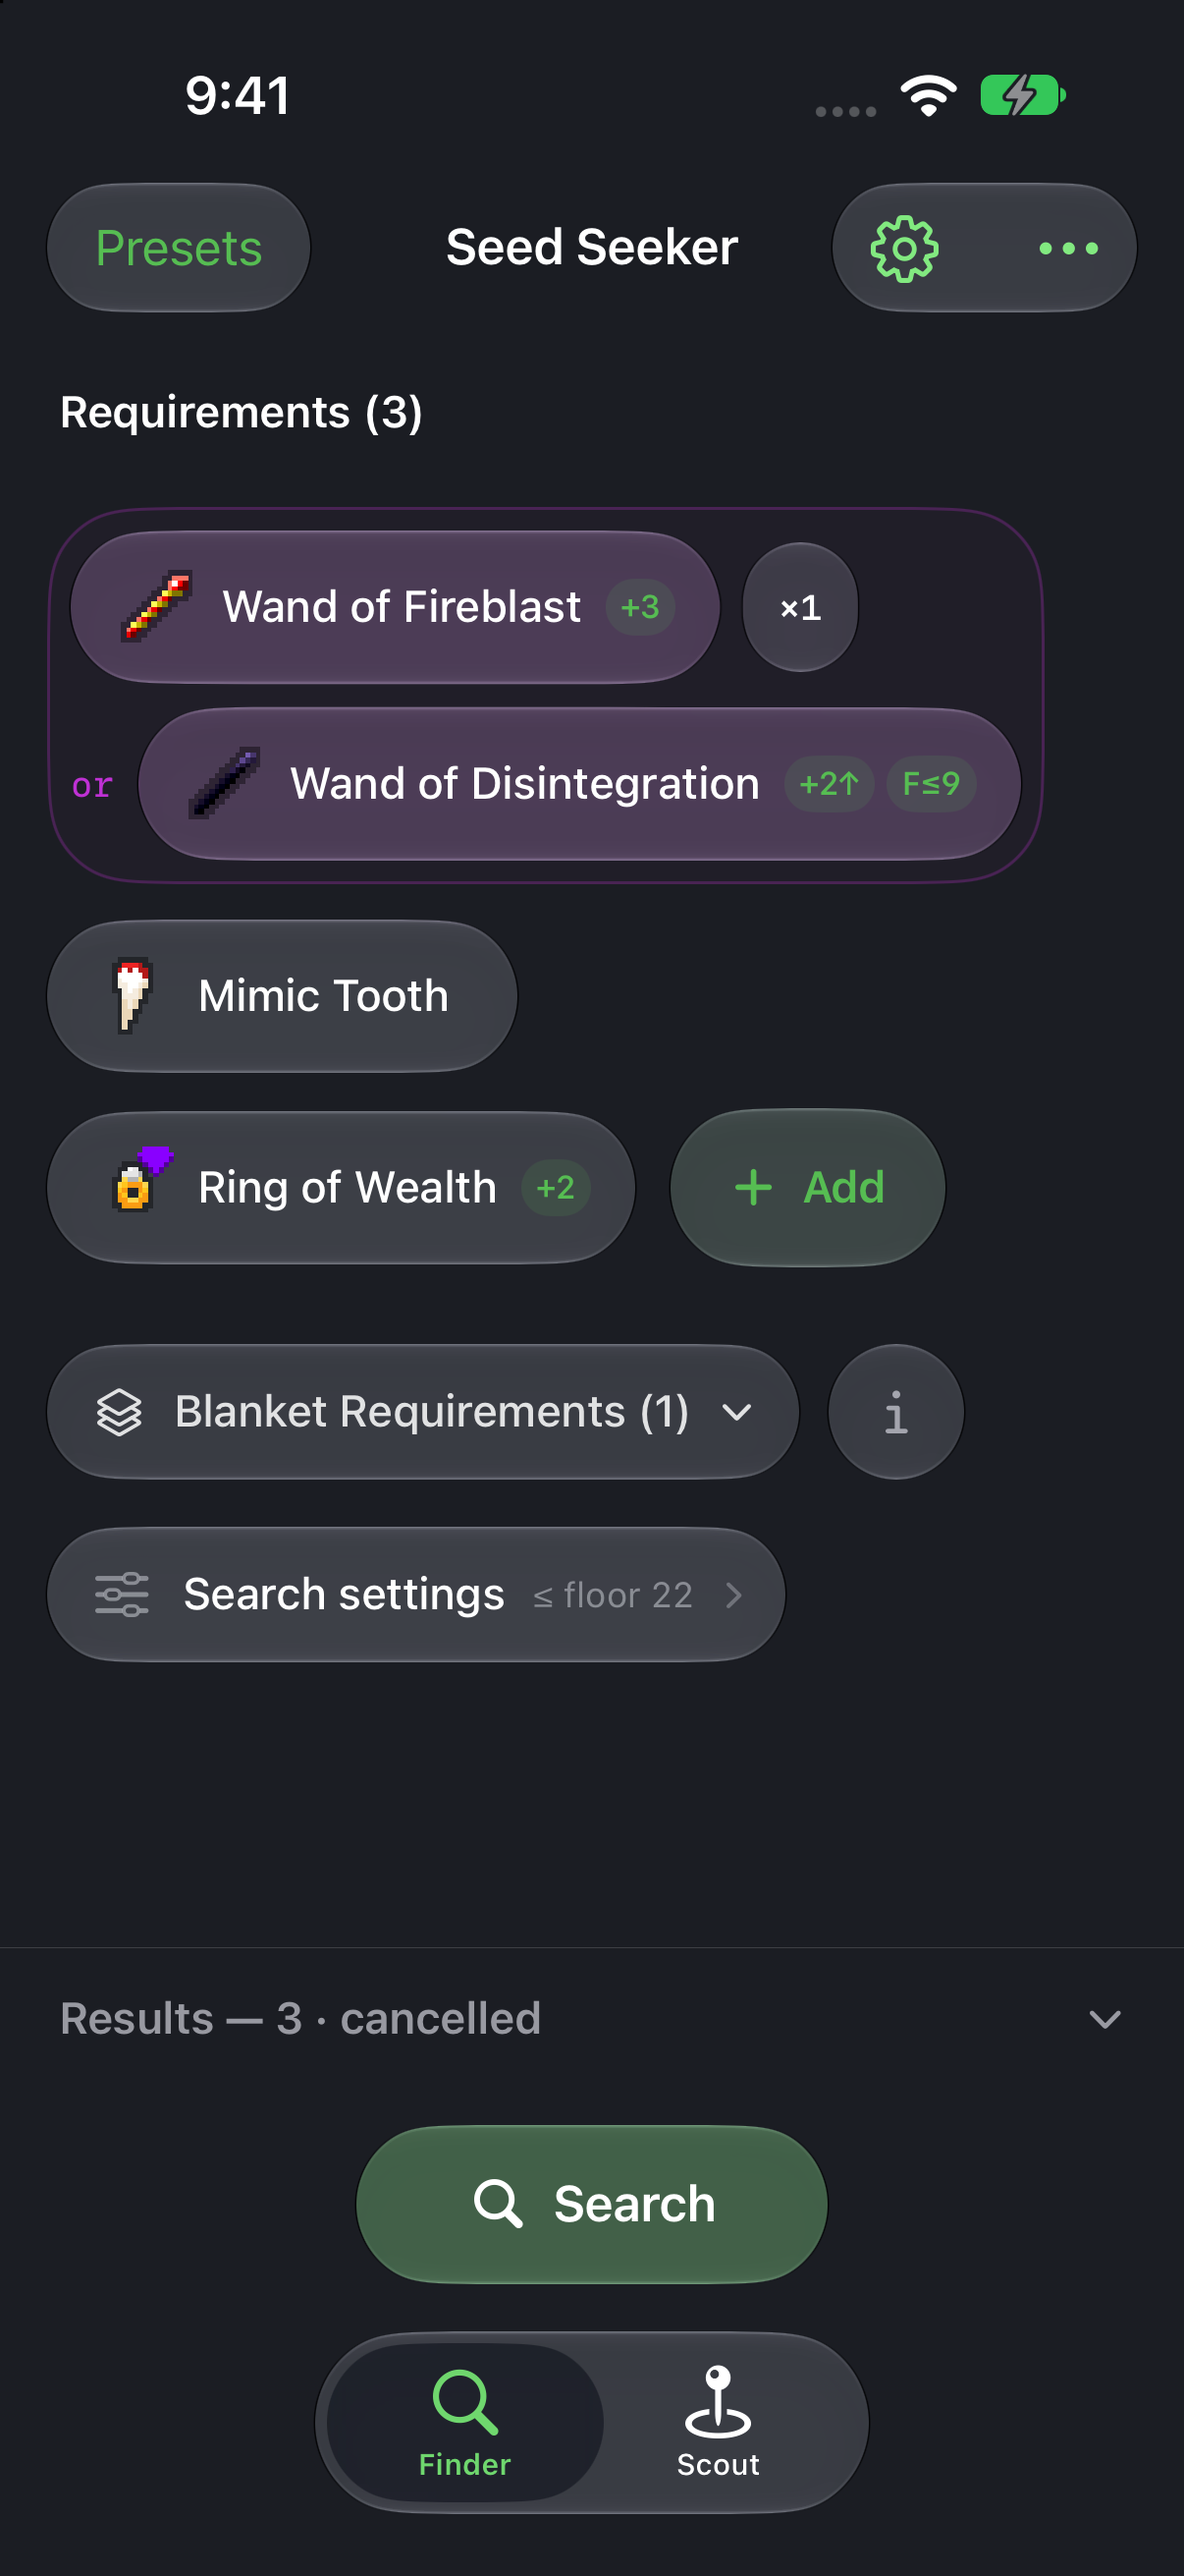
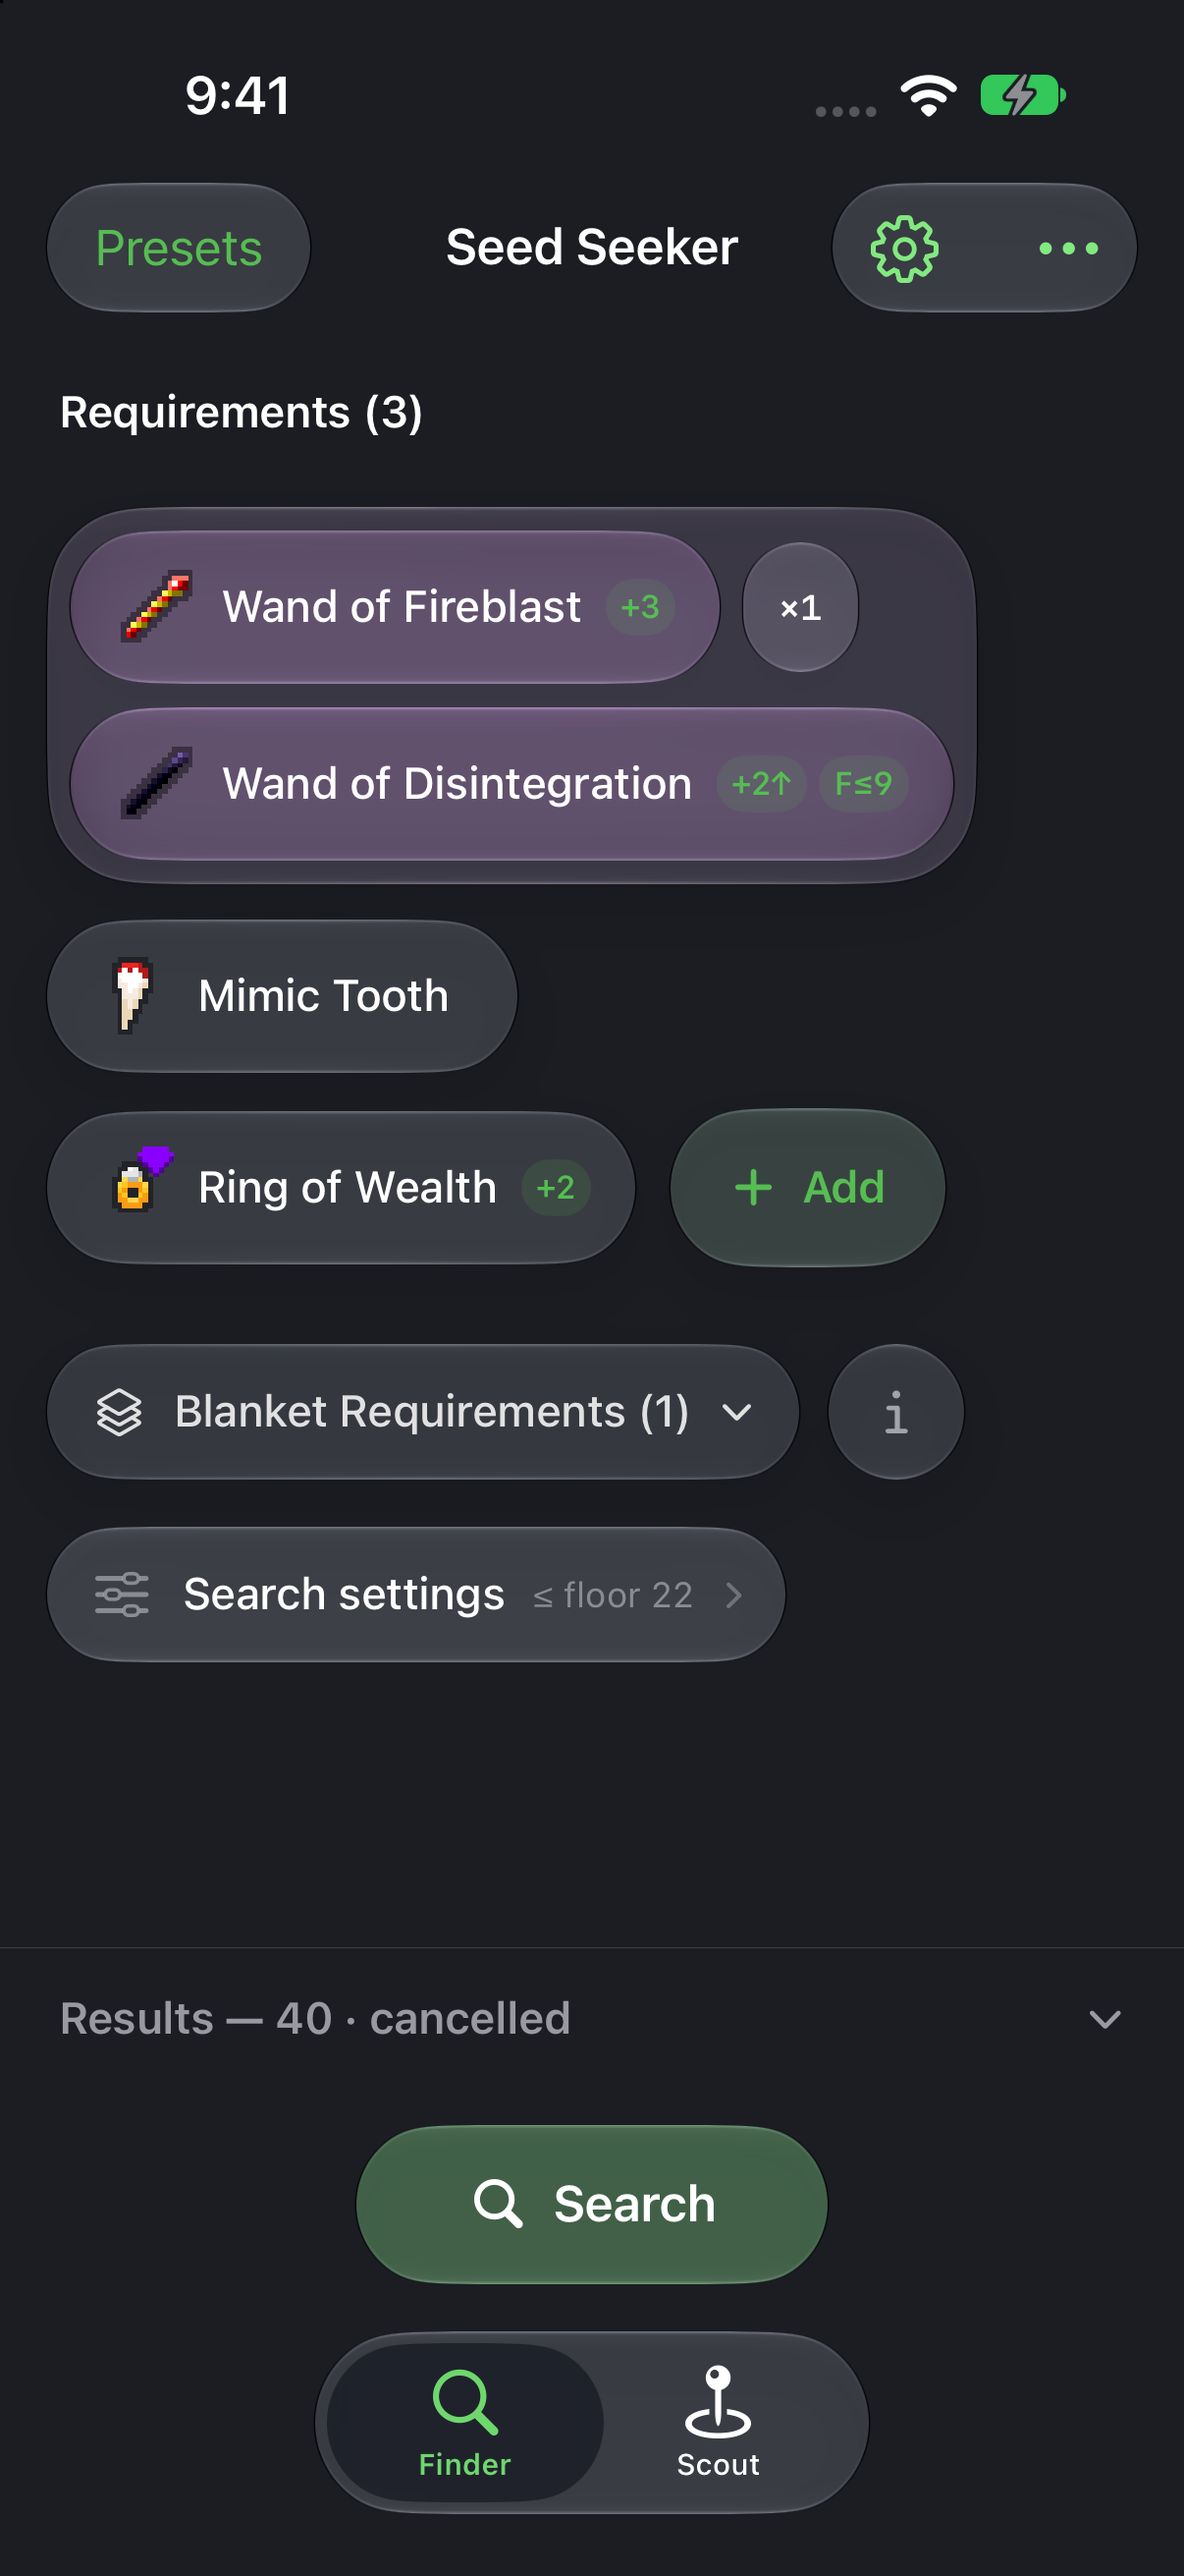
Enclose alternative requirements in a glass tray

Changed region(s): [[0.0307, 0.1854, 0.8897, 0.3707], [0.2148, 0.7723, 0.4909, 0.8032]]

diff --git a/ios/SeedSeeker/RequirementsView.swift b/ios/SeedSeeker/RequirementsView.swift
@@ -176,10 +176,6 @@ struct RequirementsView: View {
             RequirementsFlowLayout(spacing: 8, fillsWidth: false) {
                 ForEach(item.members.map { requirements[$0] }, id: \.key) { requirement in
                     HStack(spacing: 8) {
-                        if requirement.key != requirements[item.anchor].key {
-                            Text("or").font(.caption.monospaced().weight(.medium))
-                                .foregroundStyle(.purple.opacity(0.85))
-                        }
                         chip(requirement, item: item)
                         if requirement.key == requirements[item.anchor].key && requirements.canStack(item) {
                             Button {
@@ -199,14 +195,8 @@ struct RequirementsView: View {
                 }
             }
             .padding(8)
-            .background {
-                RoundedRectangle(cornerRadius: 30, style: .continuous)
-                    .fill(.purple.opacity(0.025))
-                    .overlay {
-                        RoundedRectangle(cornerRadius: 30, style: .continuous)
-                            .strokeBorder(.purple.opacity(0.22), lineWidth: 1)
-                    }
-            }
+            .glassEffect(.regular.tint(.purple.opacity(0.035)), in: .rect(cornerRadius: 32))
+            .glassEffectID("group-\(cluster)", in: glass)
             .id("group-\(cluster)")
         } else {
             chip(requirements[item.anchor], item: item)
